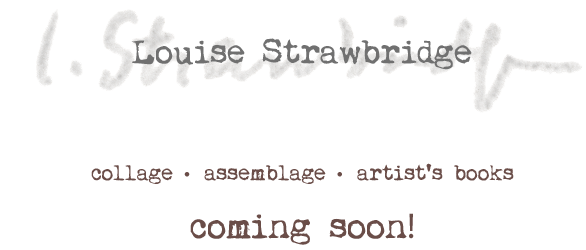
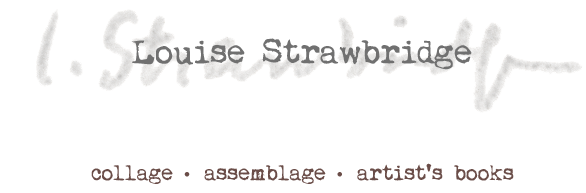
start of font fixes
- remove coming soon from featured_image
- update the christmas present rewrap in footer
- remove intervariable font

diff --git a/layouts/partials/site_head.html b/layouts/partials/site_head.html
@@ -10,10 +10,12 @@
     <link rel="icon" type="image/svg+xml" href="{{ "images/favicon.svg" | relURL }}" />
     <link rel="icon" type="image/png" href="{{ "images/favicon.png" | relURL }}" />
     <link rel="apple-touch-icon" sizes="180x180" href="{{ "images/apple-touch-icon.png" | relURL }}" />
-    <link rel="preload" href="/fonts/InterVariable.woff2" as="font" type="font/woff2"  crossorigin="anonymous" integrity="sha256-ive9W1RVZ63/s9/Otb7bNTpSLXvxs6K4r3tgZBVrq8A=" />
+    {{/*  <link rel="preload" href="/fonts/InterVariable.woff2" as="font" type="font/woff2"  crossorigin="anonymous" integrity="sha256-ive9W1RVZ63/s9/Otb7bNTpSLXvxs6K4r3tgZBVrq8A=" />  */}}
     <link rel="preload" href="/images/fonts/myunderwood-webfont.woff" as="font" type="font/woff"  crossorigin="anonymous" integrity="" />
     <meta name="description" content="{{ with .Description }}{{ . }}{{ else }}{{ with .Site.Params.description }}{{ . }}{{ end }}{{ end }}" />
+    <!-- hugo.Generator content -->
     {{ hugo.Generator }}
+    <!-- end.Generator content -->
     {{ if .Params.private }}
       <meta name="robots" content="noindex, nofollow" />
     {{ end }}
@@ -24,7 +26,10 @@
     {{/*  include any css files in site root/assets/css  */}}
     {{ $extended := (resources.Match "css/extended/*.css") | resources.Concat "assets/css/extended.css" }}
     {{ $css := resources.Get "/css/styles.css" | resources.PostCSS (dict "inlineImports" true) }}
-    {{ $mergedCss := slice $extended $css | resources.Concat "css/merged.css" | resources.Minify | resources.Fingerprint }}
+    {{ $mergedCss := slice $extended $css | resources.Concat "css/merged.css" }}
+    {{ if hugo.IsProduction }}
+      {{ $mergedCss := $mergedCss | resources.Minify | resources.Fingerprint }}
+    {{ end }}
     <link rel="stylesheet" href="{{ $mergedCss.RelPermalink }}" />
     {{ $js := resources.Get "js/main.js" | js.Build (dict "minify" true) | resources.Fingerprint }}
     <script src="{{ $js.RelPermalink }}" defer></script>

diff --git a/layouts/partials/site_footer.html b/layouts/partials/site_footer.html
@@ -15,9 +15,11 @@
 
   {{- $isChristmas := (.Param "showChristmasOverlay") | default false }}
   {{- if $isChristmas }}
-    <div id="christmas-present" class="m-2 flex flex-wrap justify-center">
+
+    <button id="christmas-present" class="cursor-pointer m-2 flex flex-wrap justify-center" aria-label="Rewrap Christmas Present!" title="Rewrap Christmas Present!">
+    {{/*  <div id="christmas-present" class="m-2 flex flex-wrap justify-center">  */}}
       <svg fill="#000000" version="1.1" id="Capa_1" xmlns="http://www.w3.org/2000/svg" xmlns:xlink="http://www.w3.org/1999/xlink" 
-        width="10px" height="10px" viewBox="0 0 362.201 362.201"
+        width="15px" height="15px" viewBox="0 0 362.201 362.201"
         xml:space="preserve">
         <g>
           <path d="M322.221,88.215h-34.004c2.794-2.854,5.178-6.141,7.062-9.792c4.952-9.6,5.869-20.554,2.583-30.843
@@ -38,7 +40,8 @@
             M314.221,151.795H293.59H189.1v-47.58h125.121V151.795z"/>
         </g>
       </svg>
-    </div>
+    {{/*  </div>  */}}
+    </button>
 
     <script>
         document.getElementById('christmas-present').addEventListener('click', function() {

diff --git a/assets/css/styles.css b/assets/css/styles.css
@@ -1,0 +1,28 @@
+
+@tailwind base;
+@tailwind components;
+@tailwind utilities;
+
+@import "../jslibs/photoswipe/dist/photoswipe.css";
+@import "../jslibs/photoswipe-dynamic-caption-plugin/photoswipe-dynamic-caption-plugin.css";
+@import "../jslibs/flickr-justified-gallery/dist/fjGallery.css";
+
+html.dark {
+  color-scheme: dark;
+}
+
+[x-cloak] {
+  display: none !important;
+}
+
+.lazyload,
+.lazyloading {
+  opacity: 0;
+}
+.lazyloaded {
+  opacity: 1;
+  transition: opacity 300ms;
+}
+img.lazyload:not([src]) {
+  visibility: hidden;
+}

diff --git a/layouts/partials/site_header.html b/layouts/partials/site_header.html
@@ -18,9 +18,9 @@
           {{ end }}
         {{/* Leave this in with an empty link for the home page */}}
           {{ else }}
-          <a class="inline-flex items-center py-4 text-xl font-medium dark:text-neutral-100" href="{{ .Site.Home.RelPermalink }}">
+          <span>
           &nbsp;
-          </a>  
+          </span>  
         {{ end }}
   
         <button @click="expanded = !expanded" type="button" class="group -me-4 ml-3 inline-flex items-center p-3 text-sm dark:text-neutral-100" title="{{ i18n "albums" }}">

diff --git a/assets/css/extended/my_underwoodregular-font.css b/assets/css/extended/my_underwoodregular-font.css
@@ -1,7 +1,5 @@
 /* Generated by Font Squirrel (http://www.fontsquirrel.com) on July 2, 2013 */
 
-
-
 @font-face {
     font-family: 'my_underwoodregular';
     src: url('/images/fonts/myunderwood-webfont.eot');
